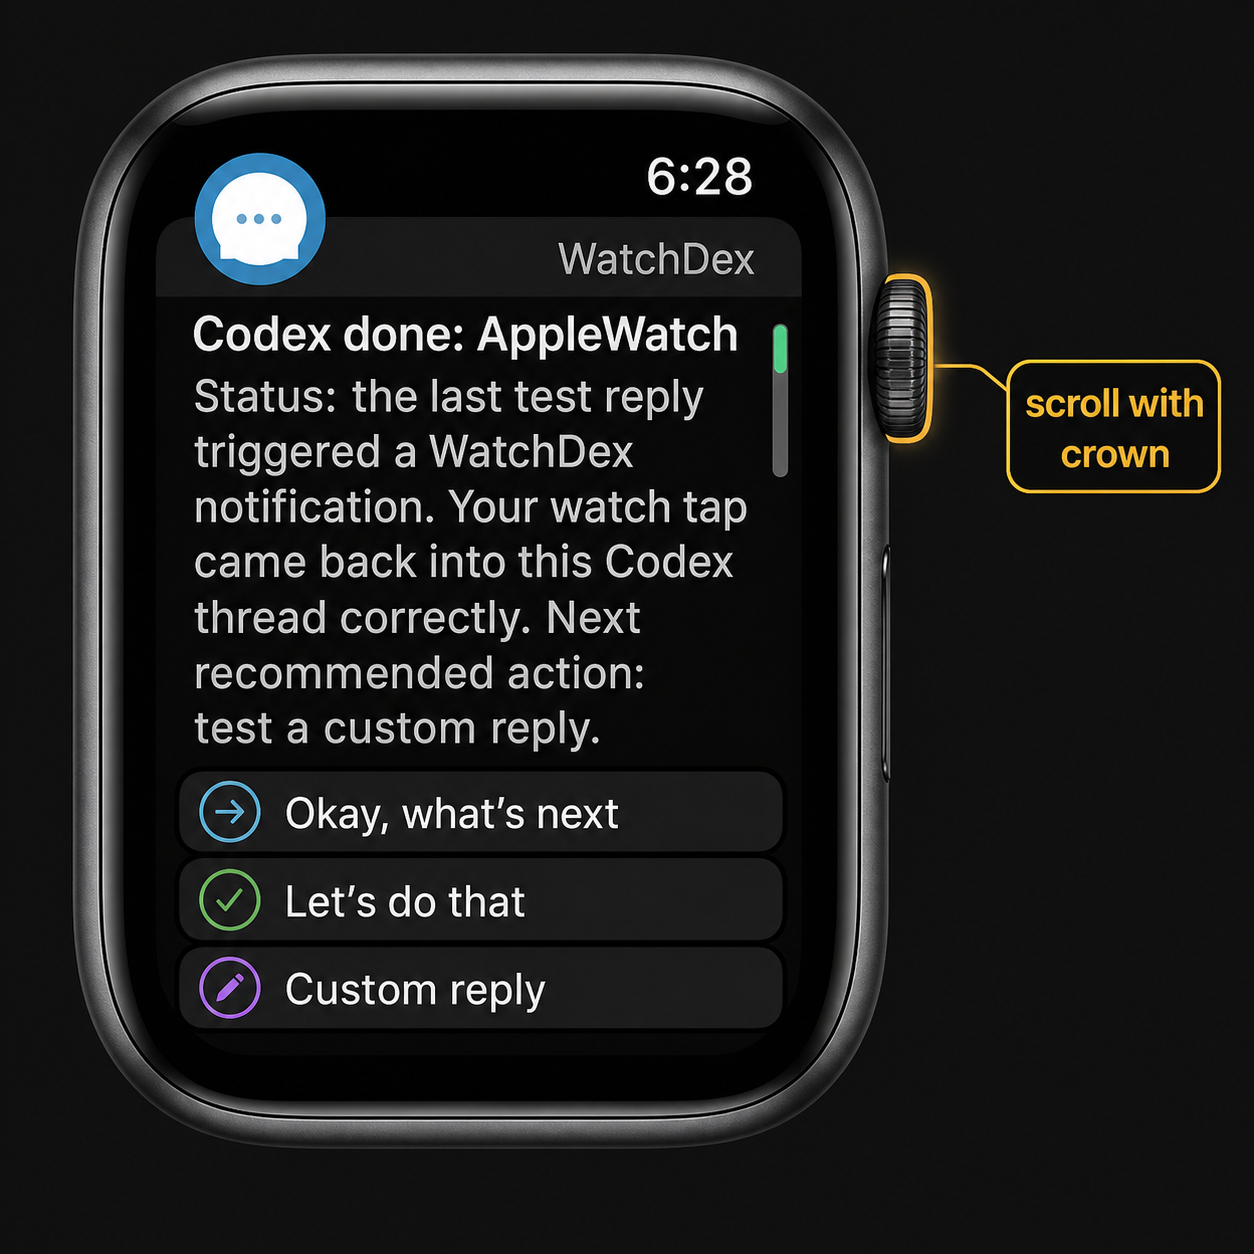
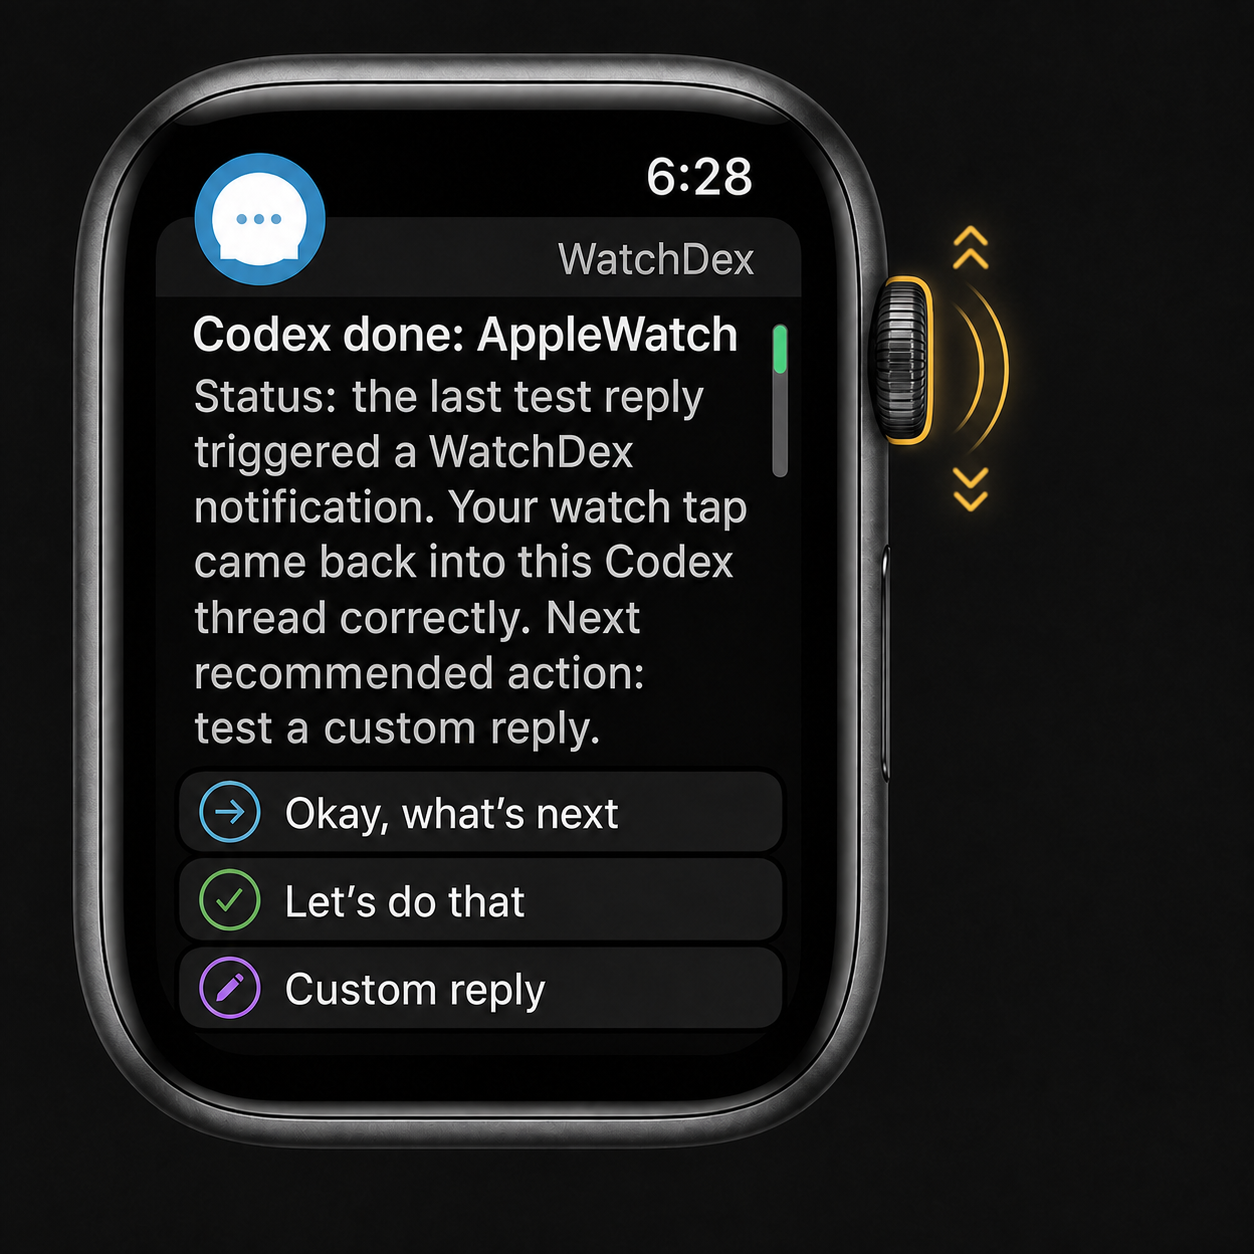
Refine watch scroll visual

diff --git a/README.md b/README.md
@@ -17,7 +17,7 @@ or "Let's do that."
 </p>
 
 <p align="center">
-  <em>Read the Codex result from your wrist, scroll with the crown, then reply.</em>
+  <em>Review the Codex result from your wrist, then reply.</em>
 </p>
 
 ## What It Does